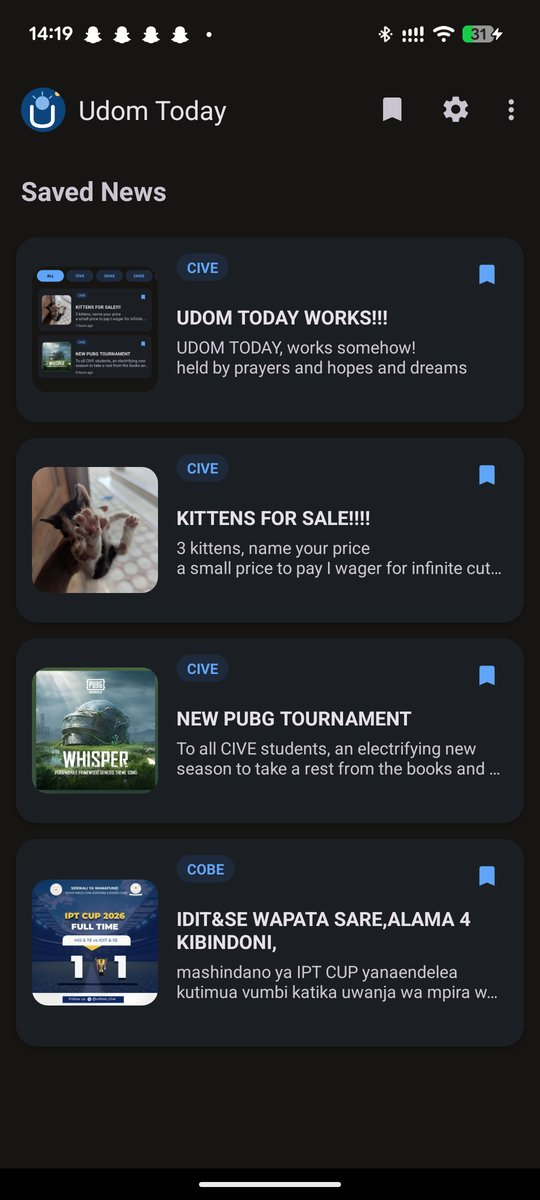
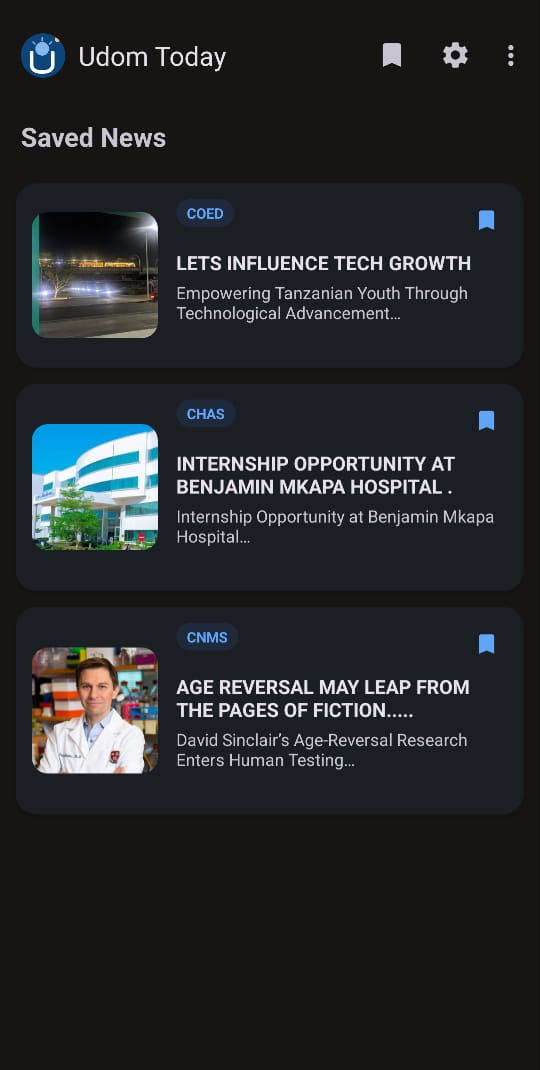
Refresh intro and About text, UDOM Today screenshots, and drop dashes
Rewrite the intro tagline and the second About paragraph, replace the
saved-news and article screenshots with real campus posts, and swap
em dashes in the works, contact and logo label text for plainer
punctuation.

diff --git a/layouts/home.html b/layouts/home.html
@@ -14,7 +14,7 @@
 <canvas class="sky" aria-hidden="true"></canvas>
 
 <header class="hud">
-  <a class="brand" href="#intro" data-go="0" aria-label="{{ site.Params.brand }} — back to intro">
+  <a class="brand" href="#intro" data-go="0" aria-label="{{ site.Params.brand }}, back to intro">
     {{ partial "art/mark.html" . }}<span class="brand-name">{{ site.Params.brand }}</span>
   </a>
   <nav class="tabs" aria-label="Pages">
